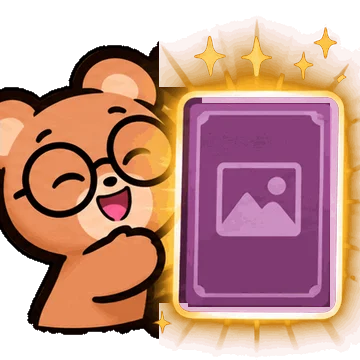
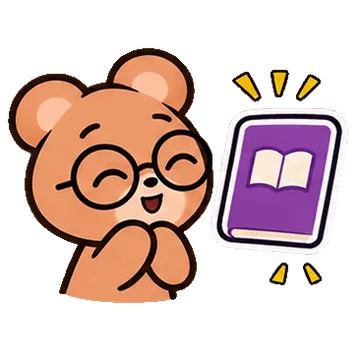
Sorteio com o GIF novo (urso sorteia livro roxo), capa inclinada na carta; toque na pessoa da leitura conjunta abre Ver perfil / Mandar mensagem

diff --git a/index.html b/index.html
@@ -9580,13 +9580,13 @@ openGoalPage = function (year) {
 };
 // --- 03_sorteio.js ---
 // Sorteio animado: o urso gira os livros (img/sorteio_gira.webp) e depois aparece segurando a carta com a capa sorteada (img/sorteio_fim.webp).
-// A capa entra no retângulo da carta (medido no quadro final do GIF: 52–91% na horizontal, 29–85% na vertical).
+// A capa entra no retângulo da carta (medido no quadro final do GIF: 64–89% na horizontal, 35–65% na vertical; GIF "Urso fofo sorteia livro roxo").
 { const st = document.createElement('style'); st.textContent = `
 .srt-stage{position:relative;width:min(240px,64vw);aspect-ratio:1;margin:0 auto .4rem}
 .srt-stage img.srt-a{position:absolute;inset:0;width:100%;height:100%;object-fit:contain}
-.srt-card{position:absolute;left:53.6%;top:30.6%;width:36.2%;height:52.4%;border-radius:4px 7px 7px 4px;overflow:hidden;opacity:0;transform:scale(.6) rotate(-6deg);transition:opacity .35s ease,transform .45s cubic-bezier(.2,1.4,.4,1)}
-.srt-card .cv{width:100%!important;height:100%!important;border-radius:0!important;font-size:.5rem}
-.srt-stage.done .srt-card{opacity:1;transform:none}
+.srt-card{position:absolute;left:66.3%;top:34.6%;width:22.4%;height:31%;border-radius:3px;--sk:skewX(-10.8deg);overflow:hidden;opacity:0;transform:var(--sk) scale(.6);transition:opacity .35s ease,transform .45s cubic-bezier(.2,1.4,.4,1)}
+.srt-card .cv{width:100%!important;height:100%!important;border-radius:0!important;font-size:.42rem;background-size:cover!important;background-position:center!important}
+.srt-stage.done .srt-card{opacity:1;transform:var(--sk)}
 .srt-stage ~ .srt-bk .srt-cv{display:none}.srt-stage ~ .srt-bk{justify-content:center;text-align:center}
 #editor .srt-wait{opacity:0;transform:translateY(6px);pointer-events:none;transition:opacity .3s,transform .3s}
 #editor .srt-show{opacity:1;transform:none;pointer-events:auto}
@@ -9613,7 +9613,7 @@ openGoalPage = function (year) {
     if (h3) h3.textContent = 'Sorteando…';
     img.src = await src('sorteio_gira.webp');
     const token = (S.srtTok = (S.srtTok || 0) + 1);
-    setTimeout(() => { if (S.srtTok === token && !ed.hidden) finish(); }, 1150);
+    setTimeout(() => { if (S.srtTok === token && !ed.hidden) finish(); }, 1200);
   };
   drawLot = (key) => sortShelf(key);
 }
@@ -9641,6 +9641,24 @@ TR.addEventListener('click', (ev) => {
 .esv-bar #esv-sort,.esv-bar [data-lot]{display:none!important}
 .es4-r [data-lot]{display:none!important}
 `; TR.append(st); }
+// --- 07_pessoa.js ---
+// Toque numa pessoa da leitura conjunta (linha no card do Início ou bolinha na página Lendo junto): Ver perfil / Mandar mensagem.
+{ const st = document.createElement('style'); st.textContent = `.v3-bud-r{cursor:pointer;border-radius:10px}.v3-bud-r:active{background:color-mix(in srgb,var(--acc) 10%,transparent)}.bj-dot[data-avh]{cursor:pointer}`; TR.append(st); }
+const personMenu = (anchor, handle, name) => {
+  const me = (typeof socialProfile !== 'undefined' && socialProfile && socialProfile.handle) || ''; if (!handle || handle === me) return;
+  const first = String(name || handle).split(' ')[0];
+  popMenu(anchor, [
+    { label: `Ver perfil de ${esc(first)}`, sub: '@' + esc(handle), fn: () => friendPage(handle) },
+    { label: 'Mandar mensagem', fn: () => openChat(handle) },
+  ]);
+};
+TR.addEventListener('click', (ev) => {
+  const row = ev.target.closest && ev.target.closest('.v3-bud-r, .bj-dot[data-avh]'); if (!row) return;
+  const av = row.matches('[data-avh]') ? row : row.querySelector('[data-avh]'); if (!av) return;
+  ev.preventDefault(); ev.stopPropagation();
+  const name = row.querySelector('small')?.textContent || (row.getAttribute('title') || '').split(' · ')[0];
+  personMenu(row, av.dataset.avh, name);
+}, true);
 // ==== 4.4 rodada 2 (fim) ====
 try { drawAll(); } catch (err) { console.error('v3g', err); }
 
